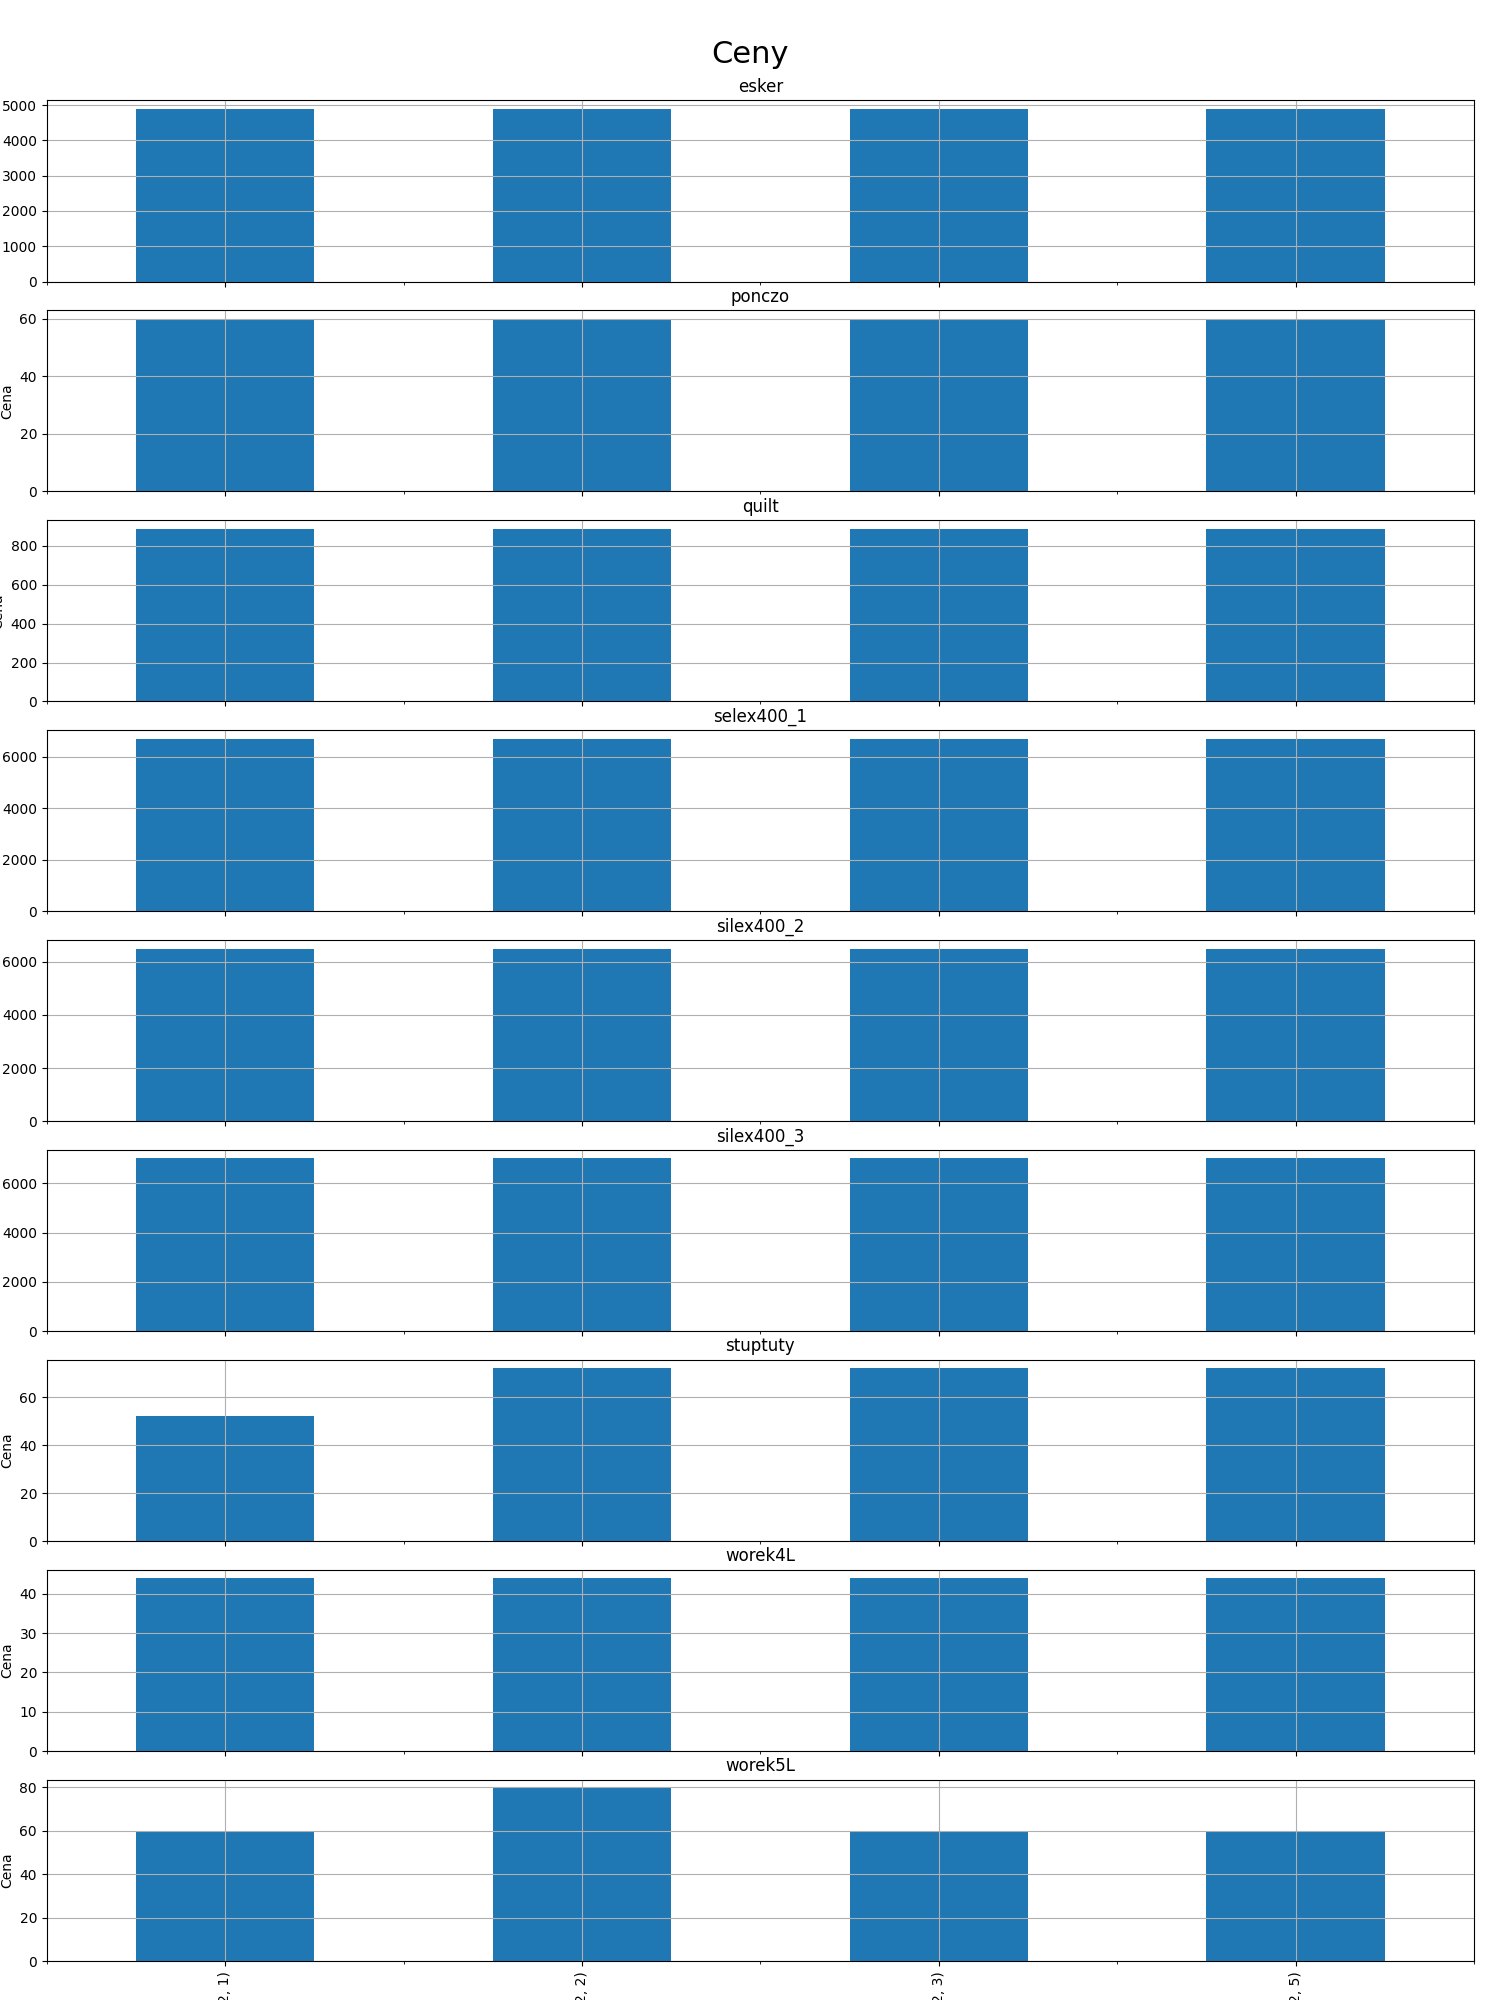
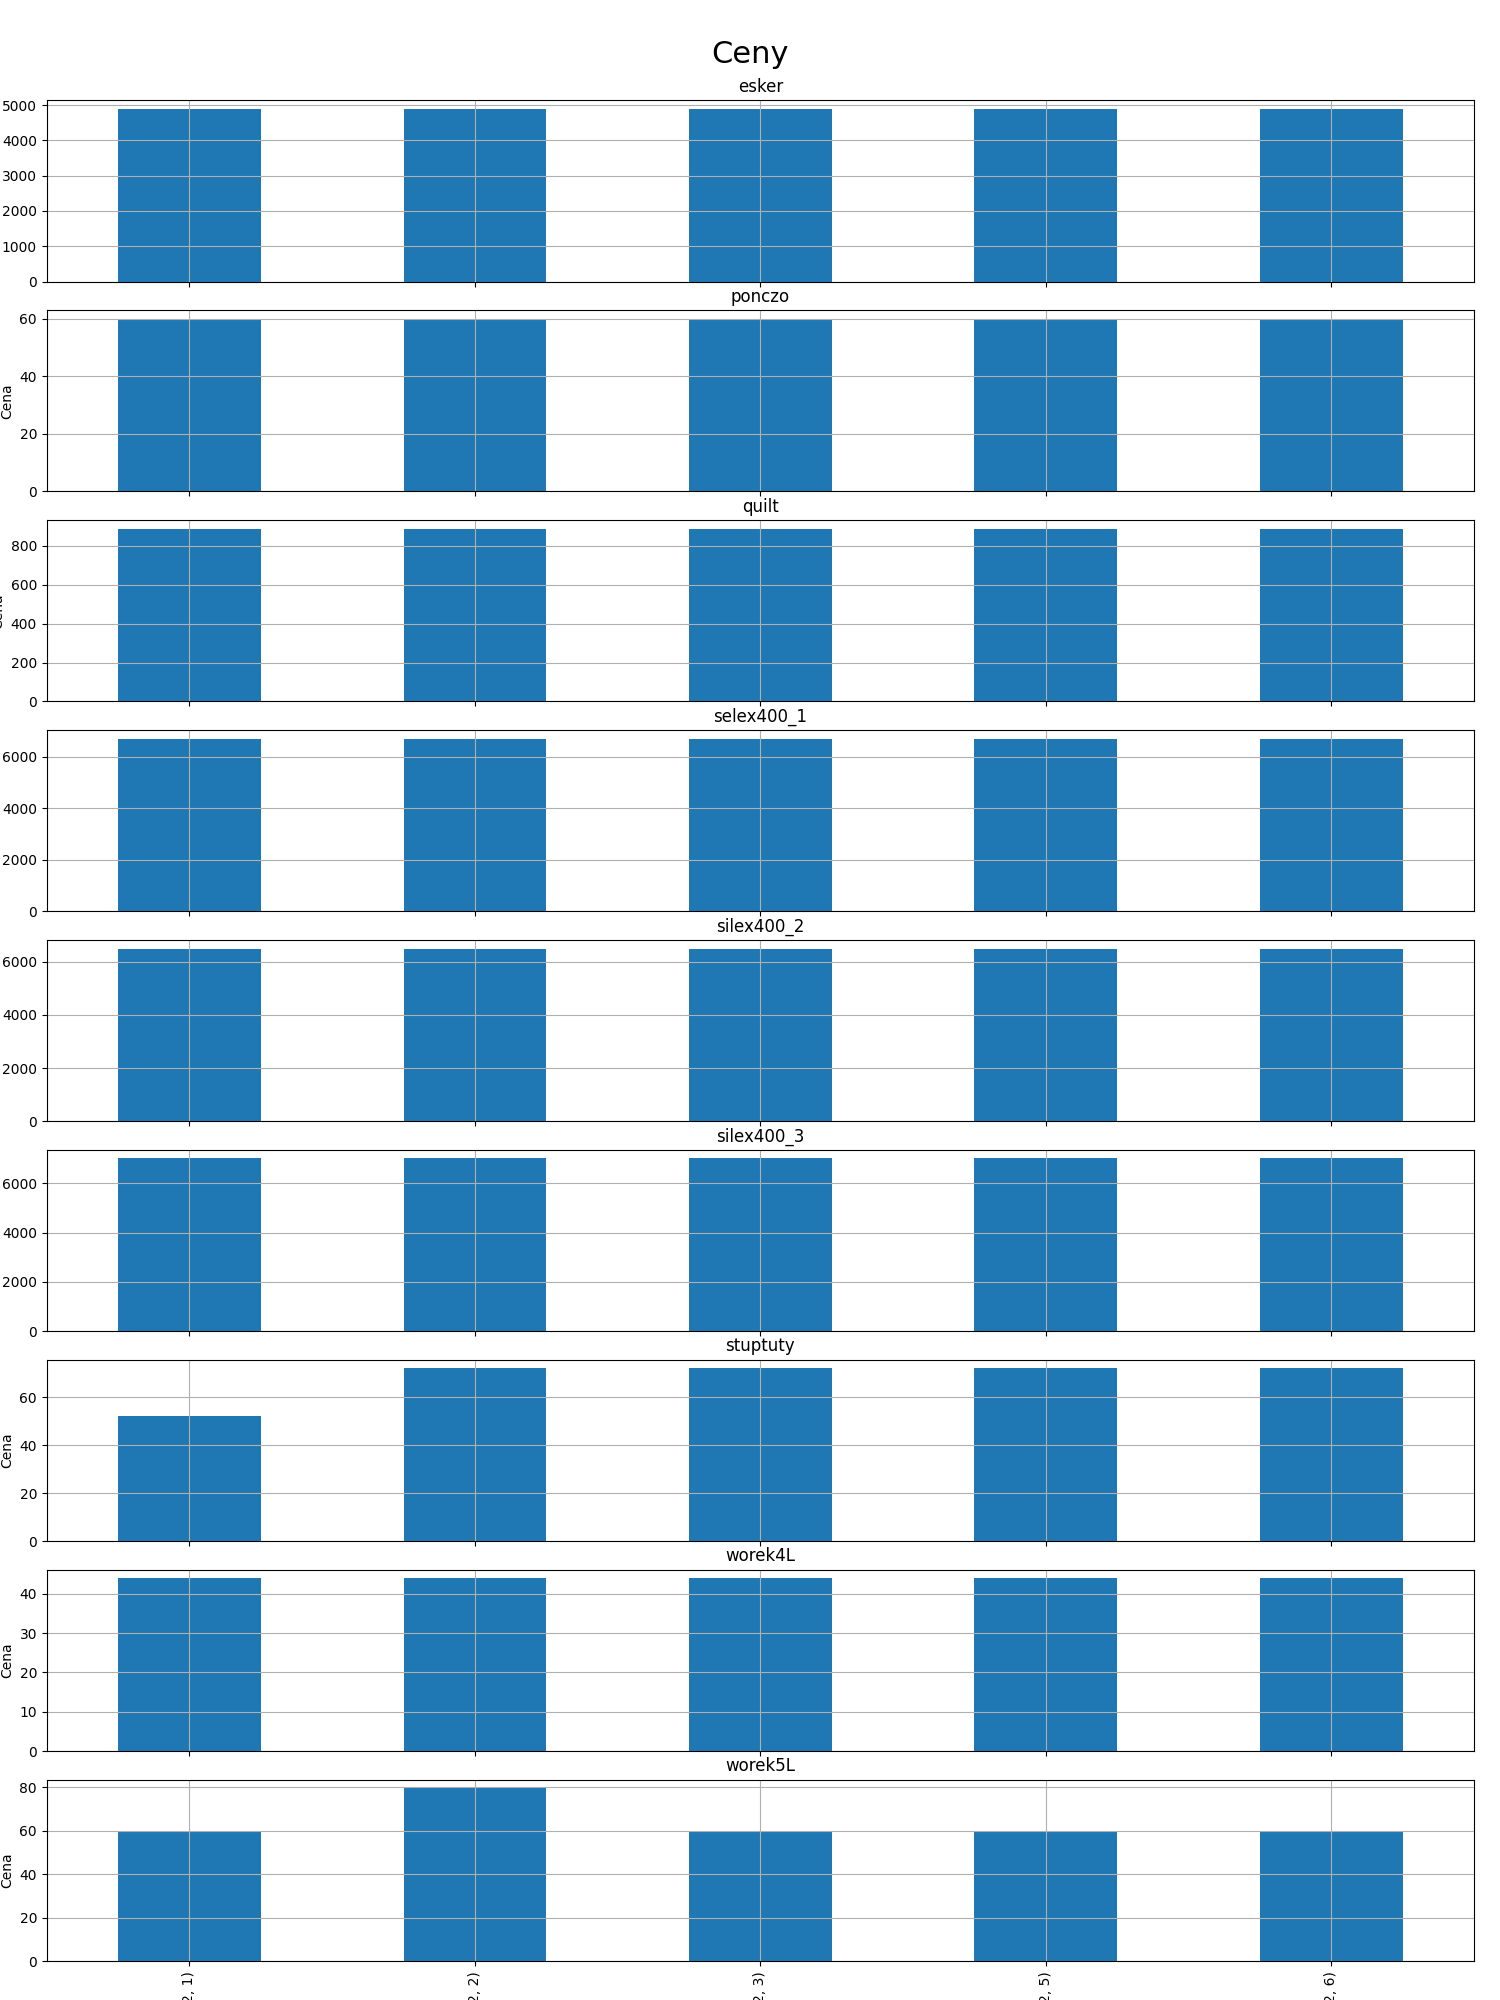
dodanie nowej tabelki z linkami

diff --git a/mail.html b/mail.html
@@ -39,8 +39,8 @@
   </thead>
   <tbody>
     <tr>
-      <th rowspan="4" valign="top">2020</th>
-      <th rowspan="4" valign="top">12</th>
+      <th rowspan="5" valign="top">2020</th>
+      <th rowspan="5" valign="top">12</th>
       <th>1</th>
       <td>4899.0</td>
       <td>59.99</td>
@@ -88,8 +88,19 @@
       <td>43.86</td>
       <td>59.49</td>
     </tr>
+    <tr>
+      <th>6</th>
+      <td>4899.0</td>
+      <td>59.99</td>
+      <td>889.0</td>
+      <td>6699.0</td>
+      <td>6499.0</td>
+      <td>6999.0</td>
+      <td>71.99</td>
+      <td>43.86</td>
+      <td>59.49</td>
+    </tr>
   </tbody>
 </table>
-<img src="Fig/graph.png" alt="img" width="600" height="300" />
 </body>
 </html>

diff --git a/templates/about.html b/templates/about.html
@@ -3,5 +3,4 @@
 {% block content %}
     <h1>Alert Cenowy</h1>
         {{ content }}
-<img src="Fig/graph.png" alt="img" width="600" height="300" />
 {% endblock %}
